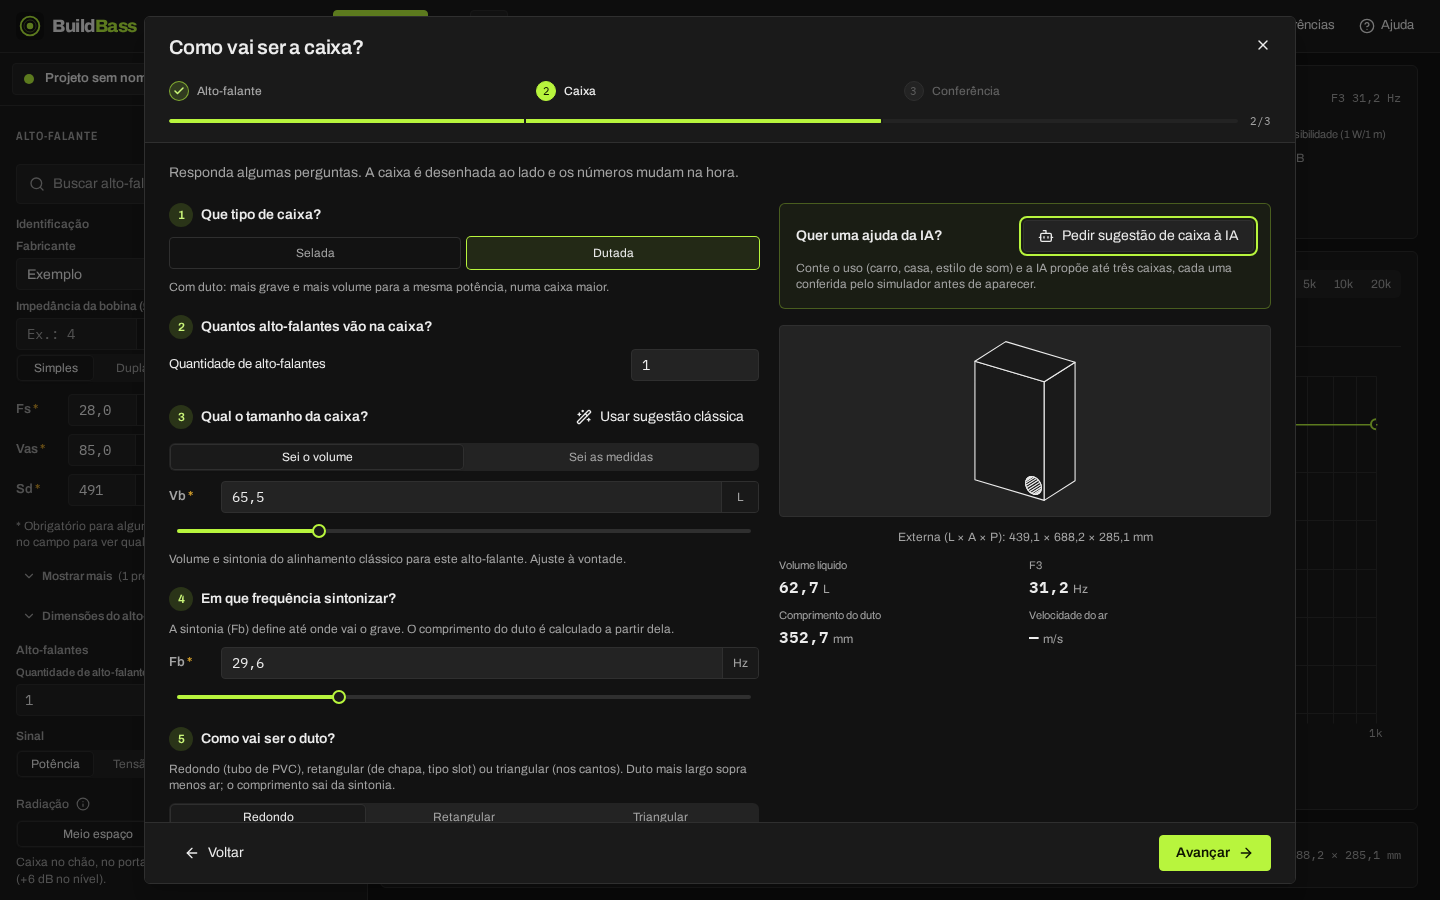
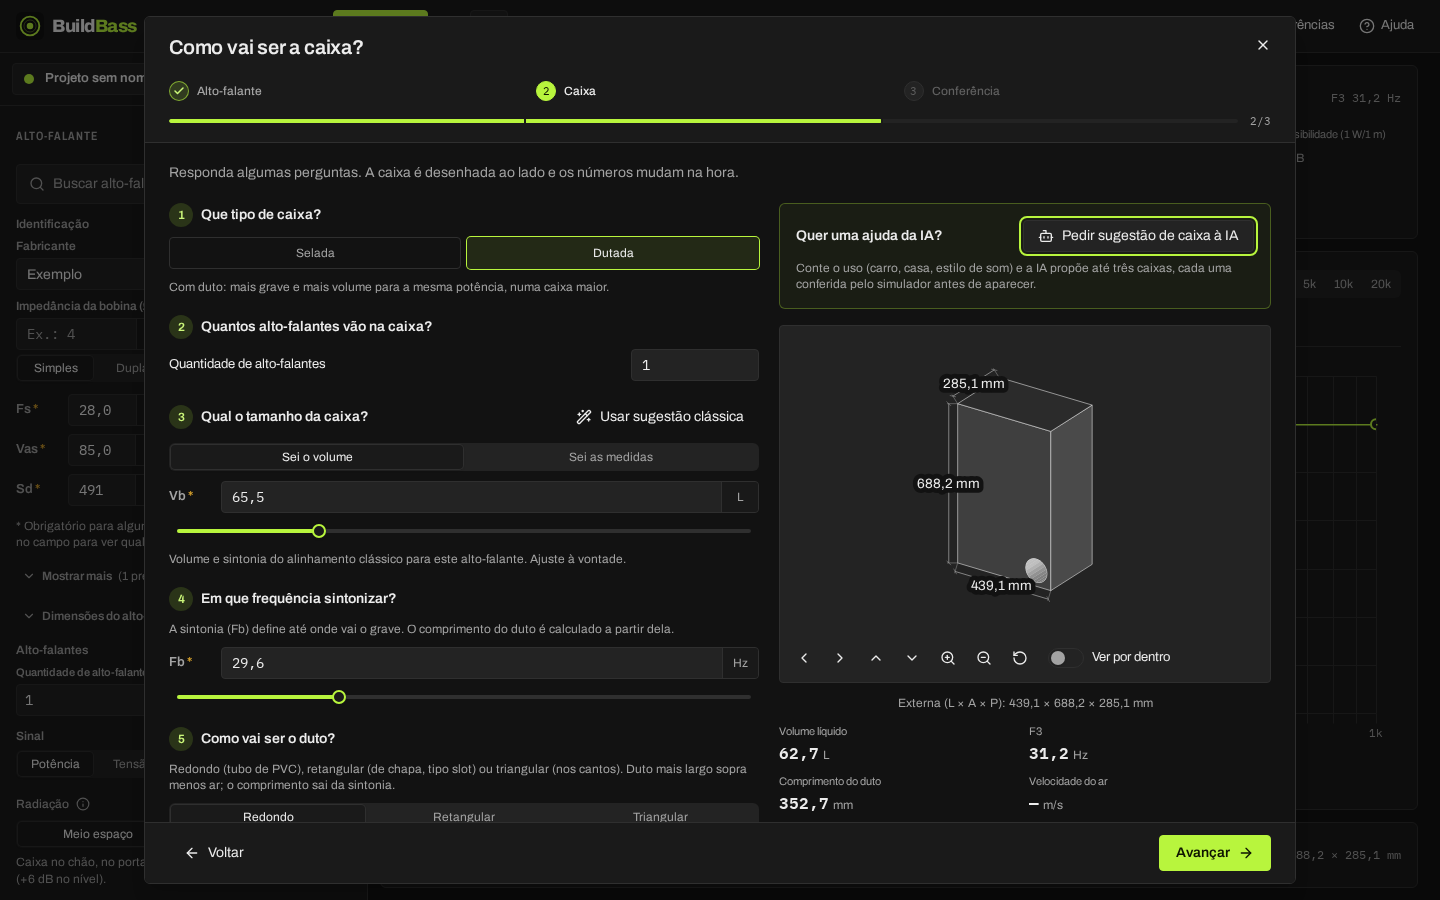
feat(web): assistente mostra a caixa em 3D com cotas enquanto se digita
- Troca a miniatura estática pela vista 3D compacta (faces sombreadas, alto-falante, giro)
- Cotas de largura, altura e profundidade externas no próprio desenho
- Imagem do README do passo da caixa regravada

diff --git a/web/src/components/workbench/box-3d-view.tsx b/web/src/components/workbench/box-3d-view.tsx
@@ -17,6 +17,7 @@ import { DEFAULT_VIEW, dimensionLines, projectBox } from '@/cutplan';
 import type { Plan, Polygon, View } from '@/cutplan';
 import { formatWithUnit } from '@/lib/units/format';
 import { defaultUnitFor } from '@/lib/units/quantities';
+import { cn } from '@/lib/utils';
 import { usePreferences } from '@/stores/preferences';
 
 const STEP_RAD = Math.PI / 12;
@@ -147,7 +148,15 @@ function ViewButton({
 
 // Caixa montada em projeção ortográfica desenhada em SVG. A lista de
 // peças continua sendo a fonte; aqui só se vê como as peças se juntam.
-export function Box3dView({ plan }: { plan: Plan }) {
+// `compact`: versão do assistente, mais baixa e sem a dica de teclado (a caixa muda enquanto se
+// digita, e as cotas mostram as medidas externas na hora).
+export function Box3dView({
+    plan,
+    compact = false,
+}: {
+    plan: Plan;
+    compact?: boolean;
+}) {
     const { t } = useTranslation('cutplan');
     const { locale } = useLocale();
     const unitSystem = usePreferences((state) => state.unitSystem);
@@ -168,7 +177,7 @@ export function Box3dView({ plan }: { plan: Plan }) {
         { yaw_rad: 0, pitch_rad: 0, zoom: 1 },
         { translucent: false },
     ).some((polygon) => polygon.part === 'driver');
-    const fontSize = radius * 0.07;
+    const fontSize = radius * (compact ? 0.09 : 0.07);
 
     const onKeyDown = (event: KeyboardEvent) => {
         const handlers: Record<string, () => void> = {
@@ -216,7 +225,10 @@ export function Box3dView({ plan }: { plan: Plan }) {
                 data-zoom={view.zoom.toFixed(3)}
                 tabIndex={0}
                 viewBox={`${-radius} ${-radius} ${2 * radius} ${2 * radius}`}
-                className="h-auto max-h-[420px] w-full cursor-grab touch-none rounded-md outline-none focus-visible:outline-2 focus-visible:outline-accent focus-visible:outline-solid"
+                className={cn(
+                    'h-auto w-full cursor-grab touch-none rounded-md outline-none focus-visible:outline-2 focus-visible:outline-accent focus-visible:outline-solid',
+                    compact ? 'max-h-[300px]' : 'max-h-[420px]',
+                )}
                 onKeyDown={onKeyDown}
                 onPointerDown={(event) => {
                     event.currentTarget.setPointerCapture?.(event.pointerId);
@@ -335,7 +347,9 @@ export function Box3dView({ plan }: { plan: Plan }) {
                     );
                 })}
             </svg>
-            <p className="text-[11px] text-muted">{t('view3d.hint')}</p>
+            {!compact && (
+                <p className="text-[11px] text-muted">{t('view3d.hint')}</p>
+            )}
             <div
                 role="group"
                 aria-label={t('view3d.controls')}

diff --git a/web/src/components/assistant/step-box.tsx b/web/src/components/assistant/step-box.tsx
@@ -1,5 +1,5 @@
 import { Suspense, lazy, useEffect, useRef, useState } from 'react';
-import { Bot, Wand2 } from 'lucide-react';
+import { Bot, Box, Wand2 } from 'lucide-react';
 import { useLocale } from 'react-aria-components';
 import { useTranslation } from 'react-i18next';
 import { Banner } from '@/components/ui/banner';
@@ -31,7 +31,7 @@ import { defaultUnitFor, findUnit } from '@/lib/units/quantities';
 import type { UnitId } from '@/lib/units/quantities';
 import { usePreferences } from '@/stores/preferences';
 
-const BoxThumbnail = lazy(() => import('@/components/workbench/box-thumbnail'));
+const Box3dView = lazy(() => import('@/components/workbench/box-3d-view'));
 
 type SimpleType = 'closed' | 'vented';
 type SizeMode = 'volume' | 'size';
@@ -518,9 +518,22 @@ function BoxPreview() {
             aria-label={t('assistant:box.previewTitle')}
             className="flex min-w-0 flex-col gap-3"
         >
-            <Suspense fallback={<div className="h-48" aria-hidden="true" />}>
-                <BoxThumbnail onPress={() => {}} className="h-48" />
-            </Suspense>
+            {cutPlan.status === 'ready' ? (
+                <Suspense
+                    fallback={<div className="h-72" aria-hidden="true" />}
+                >
+                    <div className="rounded-md border border-border bg-raised p-2">
+                        <Box3dView plan={cutPlan.plan} compact />
+                    </div>
+                </Suspense>
+            ) : (
+                <div
+                    aria-hidden="true"
+                    className="flex h-48 items-center justify-center rounded-md border border-dashed border-border text-muted"
+                >
+                    <Box className="size-8" />
+                </div>
+            )}
             {external !== undefined && (
                 <p className="text-center text-xs text-muted tabular-nums">
                     {t('assistant:box.externalSize', {
